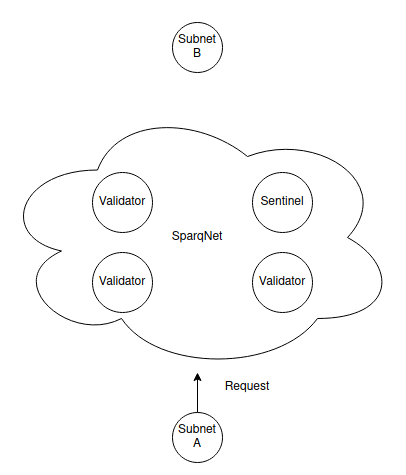
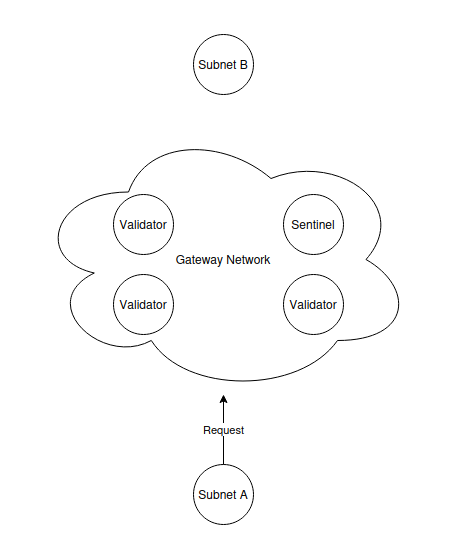
Update the 1.4 - Bridging section

diff --git a/Sparq_en-US/ch1/1-4.md b/Sparq_en-US/ch1/1-4.md
@@ -1,65 +1,81 @@
 # 1.4 - Bridging
 
-As explained earlier, there are inherent flexibility problems with **native** and **application-specific** chains when compared to traditional EVM chains.
+As explained in [1.1](1-1.md), there are inherent flexibility problems with **native** and **application-specific** chains when compared to traditional EVM chains.
 
-Those problems could heavily damage the reputation of a project built on them, and our solution is to allow Sparq-enabled blockchains to natively communicate with each other by using SparqNet as a middleman. We call that **bridging**.
+Those problems could heavily damage the reputation of a project built on them, and our solution is to allow Sparq-enabled blockchains to natively communicate with each other by using the Gateway Network as a middleman. We call that **bridging**.
 
-It's possible to bridge *arbitrary data* and *tokens*, both *between SparqNet nodes* and *between SparqNet and external networks*.
+It's possible to bridge *arbitrary data* and *tokens*, both *between OrbiterSDK nodes* and *between OrbiterSDK and external networks*.
 
-## SparqNet <-> SparqNet Data Bridging
+## OrbiterSDK <-> OrbiterSDK Data Bridging
 
-Bridging data from a SparqNet chain (A) to another (B) is simple:
+Bridging data from a OrbiterSDK chain (A) to another (B) is simple:
 
-* A writes a request on the next block and relays the request with the block reference to SparqNet.
+* Chain A logs a request in the upcoming block and communicates this, along with the block reference, to the Gateway Network.
 
 ![DataRequest](img/DataRequest.png)
 
-* The randomly selected Validators and Sentinels check A's request and relay it to B.
+* A set of randomly selected Validators and Sentinels review Chain A's request and forward it to Chain B.
 
-![SparqNetDataRequest](img/SparqNetDataRequest.png)
+![GatewayNetworkDataRequest](img/GatewayNetworkDataRequest.png)
 
-* B gathers the data within its chain inside a merkled item, then sends it and its reference within its own chain to SparqNet to be permanently stored.
+* Chain B retrieves the data from its chain, encapsulating it within a merkled item. This data and its internal reference are subsequently transmitted to the Gateway Network for permanent storage.
 
-![SendAnswerToSparqNet](img/SendAnswerToSparqNet.png)
+![SendAnswerToGatewayNetwork](img/SendAnswerToGatewayNetwork.png)
 
-* Validators and Sentinels check the data sent by B against other nodes of B to ensure that the data is inside that given block.
+* Validators and Sentinels corroborate the data submitted by Chain B with other nodes from Chain B to validate its presence in the designated block.
 
-![SparqNetVerifyBlock](img/SparqNetVerifyBlock.png)
+![GatewayNetworkVerifyBlock](img/GatewayNetworkVerifyBlock.png)
 
-* Validators and Sentinels sign the data and publish it inside SparqNet, while also relaying it back to A.
+* Validators and Sentinels signs the data and publish it inside the gateway, while also relaying it back to A.
 
 ![SendAnswerToSubnet](img/SendAnswerToSubnet.png)
 
 * A verifies the signatures and checks if the randomly selected nodes were using the network's random number generator seed.
 
-## SparqNet <-> SparqNet Token Bridging
+It is possible for Subnet A to only send information to the target chain without having to wait for an answer, this call can possibly trigger logic within the target chain, depending on how their developers decided to handle your message.
+
+## OrbiterSDK <-> OrbiterSDK Token Bridging
 
 The same method for arbitrary data bridging is used for token bridging, but there are extra checkups to make sure that a given chain is not minting another chain's tokens.
 
-Due to how the project was designed, when doing a cross-chain transaction we can only ensure that the data *exists*, not that it is *valid in context*. That breach allows a given chain to mint the native token of another chain, because SparqNet does not verify if the token is valid inside that network.
+Due to how the project was designed, when doing a cross-chain transaction we can only ensure that the data *exists*, not that it is *valid in context*. That breach allows a given chain to mint the native token of another chain, because the Gateway Network does not verify if the token is valid inside that network.
 
 We avoid this problem by keeping a "token table", which is just a "spreadsheet" of chains and their external token balances. Of course, this doesn't include the given chain's own native token, since it can freely mint its own token itself and does its own internal validations to avoid invalid minting conditions.
 
-For example, we have chains A, B, and C, each one with tokens of each other. SparqNet keeps track of:
+For example, we have chains A, B, and C, each one with tokens of each other. The Gateway Network keeps track of:
 
 * How many B's and C's exist on A
 * How many A's and C's exist on B
 * How many A's and B's exist on C
 
-When bridging another chain's tokens, SparqNet checks if that chain has enough balance to do so. When bridging your own tokens, SparqNet only has to increase the balance on the target chain, since the `exit` transaction from your chain has to be included in one of your blocks, which means it has been verified and validated inside your own network, so there's no need to do it again from the outside.
+When bridging another chain's tokens, Gateway Network checks if that chain has enough balance to do so. When bridging your own tokens, the Gateway Network only has to increase the balance on the target chain, since the `exit` transaction from your chain has to be included in one of your blocks, which means it has been verified and validated inside your own network, so there's no need to do it again from the outside.
 
-SparqNet <-> SparqNet Bridge follows mint/burn mechanisms.
+OrbiterSDK <-> OrbiterSDK Bridge follows mint/burn mechanisms.
 
-## SparqNet <-> External Bridging (Ethereum, Solana, etc.)
+## OrbiterSDK <-> AvalancheGo Subnet Bridging.
+
+The Gateway Network is designed as an Avalanche Subnet, making it inherently compatible with the Avalanche Warp Messaging system. This compatibility means that blockchains developed with OrbiterSDK with AvalancheGo can easily leverage this warp system. They can efficiently communicate with other parts of the Avalanche network without relying entirely on the Gateway Network, enhancing speed and reliability.
+
+By integrating the warp system into our bridging tactics, we enhance the reach of OrbiterSDK. It's not confined to just communicating with other OrbiterSDK blockchains but can connect with any subnet in the Avalanche framework.
+
+In essence, any network—be it an Avalanche subnet or an OrbiterSDK subnet—can interface with one another. The mode of communication shifts slightly, with the warp messaging system facilitating exchanges from the gateway network to the Avalanche subnet.
+
+See the example below on how messages are sent from an OrbiterSDK subnet to an AvalancheGo subnet, while the mechanisms to ensure data existence remains the same.
+
+![AvalancheGoSubnetBridging](img/AvalancheGoSubnetBridging.png)
+
+## OrbiterSDK <-> External Bridging (Ethereum, Solana, etc.)
 
 There are multiple edge cases related to external bridging. For example, not only it's not possible to natively push data into these chains without paying transaction fees, but those external networks are also limited on both processing power and how much signature verification can be done.
 
 Knowing this, at least for now, the current bridging implementation for them is centralized and owned by Sparq Labs Inc. to ensure operational safety.
 
-SparqNet <-> External bridge follows lock/release mechanisms.
+OrbiterSDK <-> External bridge follows lock/release mechanisms.
 
 ## How is safety ensured?
 
-Nodes that will read from a given chain are determined using `RandomGen`, the trustless decentralized random number generator developed by Sparq Labs Inc..
+Nodes that will read from a given chain are determined using `RandomGen`, the trustless decentralized random number generator developed by Sparq Labs Inc.
 
 We ensure to keep a "fair" selection of nodes, but even then there is the possibility of a 51% attack - in a network with 100 nodes, if a given malicious user controls 50 of them, and all of them get selected for driving a cross-chain request and a block, they could collude and forward any message they wanted. We avoid this by introducing Sentinels to the network to ensure this collusion doesn't happen.
+
+See the following links for more details on [How rdPoS works](1-3.md), [How consensus works](1-2.md), [RandomGen](../ch2/2-1-1.md#randomgen)
